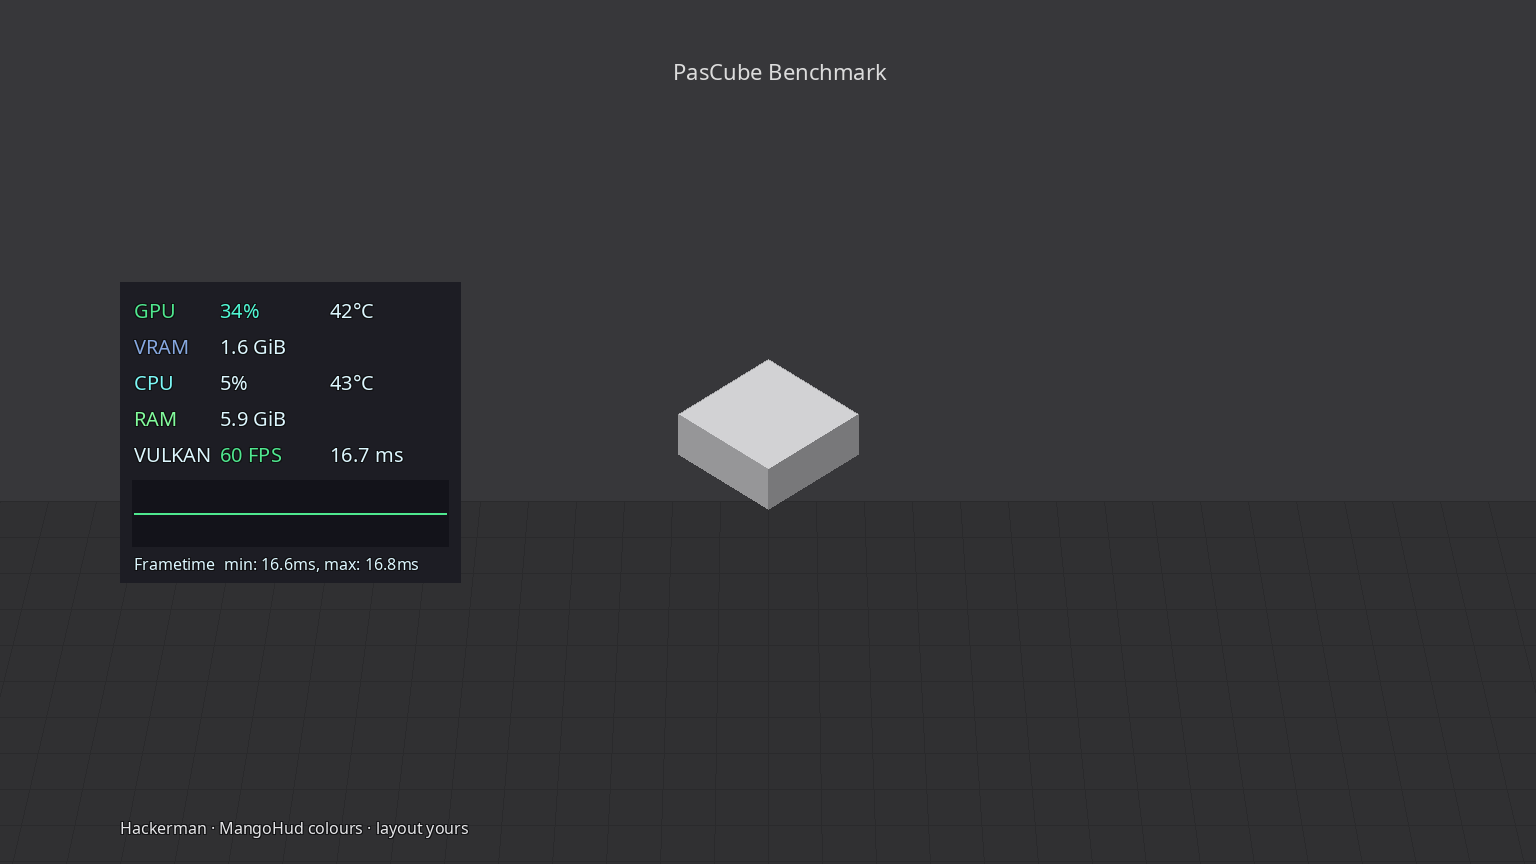
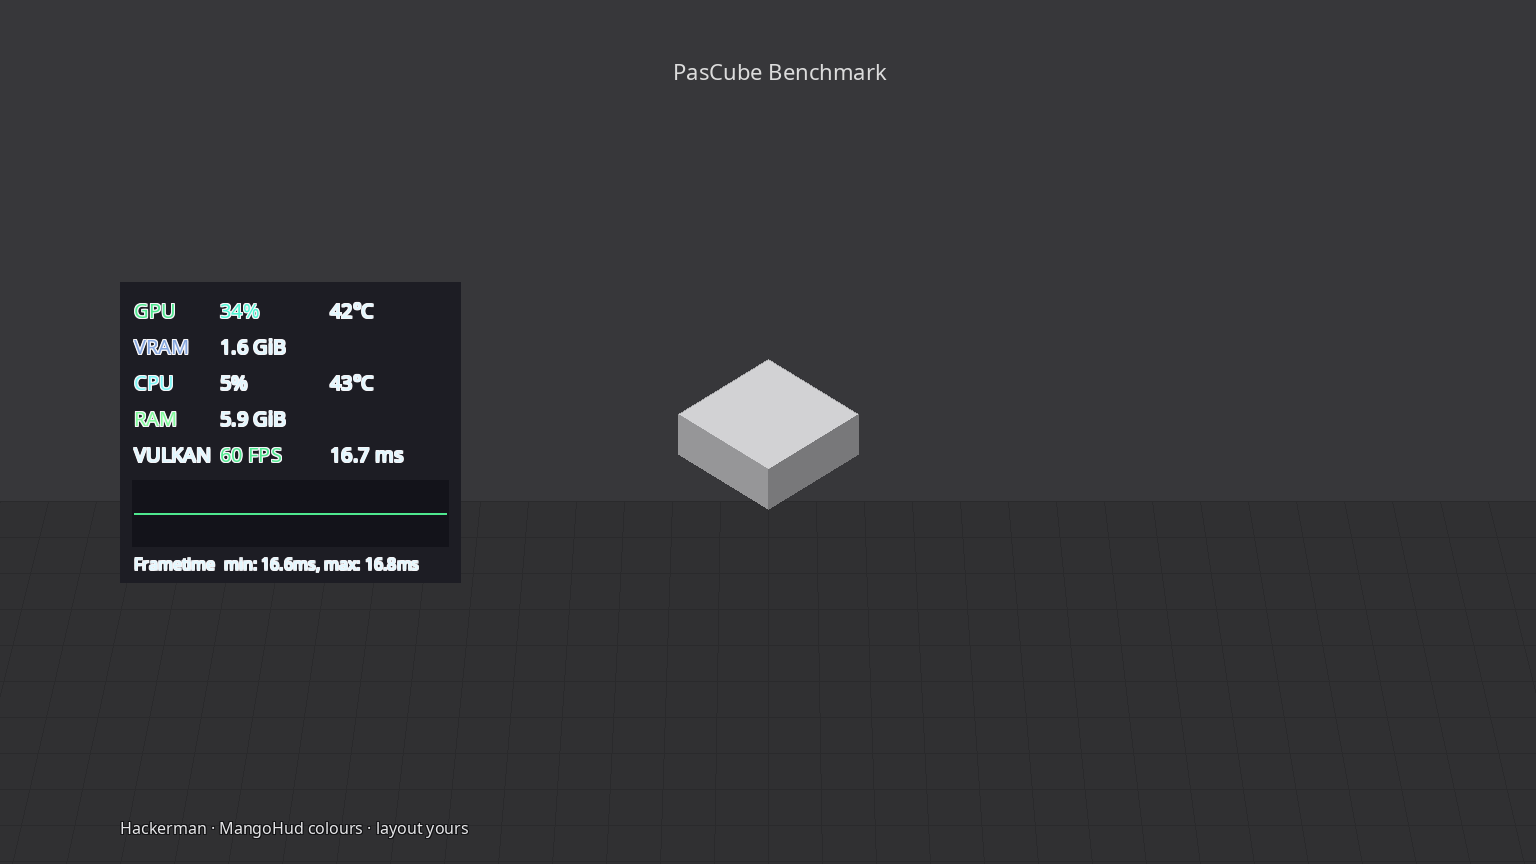
Outline light-panel HUD text dark so Latte ink stays crisp.

diff --git a/lib/omahud.py b/lib/omahud.py
@@ -24,7 +24,7 @@ from PIL import Image, ImageDraw, ImageFont
 
 PLUGIN_ID = "io.github.alxwolfenstein97.omahud"
 HEX_RE = re.compile(r"^#?[0-9A-Fa-f]{6}$")
-MOCKUP_LAYOUT_VERSION = "5"
+MOCKUP_LAYOUT_VERSION = "6"
 MOCKUP_SIZE = (1536, 864)
 # omarchy-menu-images serves 1536×864 then crops ~8% sides into the Style tile —
 # keep the HUD panel inside this inset or labels get chopped.
@@ -556,8 +556,14 @@ def _mockup_ink(fill: tuple[int, int, int], panel: tuple[int, int, int]) -> tupl
     return best
 
 
-def _outline_ink(fill: tuple[int, int, int]) -> tuple[int, int, int]:
-    """MangoHud-style edge: dark ink around light glyphs, light around dark."""
+def _outline_ink(fill: tuple[int, int, int], panel: tuple[int, int, int] | None = None) -> tuple[int, int, int]:
+    """Edge colour that thickens glyphs against the panel (not against the fill).
+
+    Light outline around Latte's dark ink washed #4c4f69 into grey on cream;
+    dark panels still get a light edge around neon labels.
+    """
+    if panel is not None:
+        return (16, 16, 18) if _rel_luma(panel) >= 0.5 else (245, 245, 248)
     return (16, 16, 18) if _luma(fill) >= 140 else (245, 245, 248)
 
 
@@ -569,9 +575,10 @@ def _draw_hud_text(
     font: ImageFont.ImageFont,
     fill: tuple[int, int, int],
     outline: tuple[int, int, int] | None = None,
+    panel: tuple[int, int, int] | None = None,
 ) -> None:
     """Glyph + 1px outline so metrics stay readable like the live HUD."""
-    edge = outline if outline is not None else _outline_ink(fill)
+    edge = outline if outline is not None else _outline_ink(fill, panel)
     x, y = xy
     if edge != fill:
         for dx in (-1, 0, 1):
@@ -670,10 +677,10 @@ def render_mockup(palette: dict[str, str], dest: Path, size: tuple[int, int] = M
         ("VULKAN", engine, "60 FPS", fps_hi, "16.7 ms", text),
     ]
     for label, label_c, a, a_c, b, b_c in rows:
-        _draw_hud_text(draw, (col_label, y), label, font=font, fill=label_c)
-        _draw_hud_text(draw, (col_a, y), a, font=font, fill=a_c)
+        _draw_hud_text(draw, (col_label, y), label, font=font, fill=label_c, panel=panel_fill)
+        _draw_hud_text(draw, (col_a, y), a, font=font, fill=a_c, panel=panel_fill)
         if b:
-            _draw_hud_text(draw, (col_b, y), b, font=font, fill=b_c)
+            _draw_hud_text(draw, (col_b, y), b, font=font, fill=b_c, panel=panel_fill)
         y += row_h
 
     # frametime graph (single bright line like a flat 16.7ms trace)
@@ -692,6 +699,7 @@ def render_mockup(palette: dict[str, str], dest: Path, size: tuple[int, int] = M
         "Frametime  min: 16.6ms, max: 16.8ms",
         font=font_sm,
         fill=text,
+        panel=panel_fill,
     )
 
     # Badge sits on the dark floor — always use light ink + dark outline.
